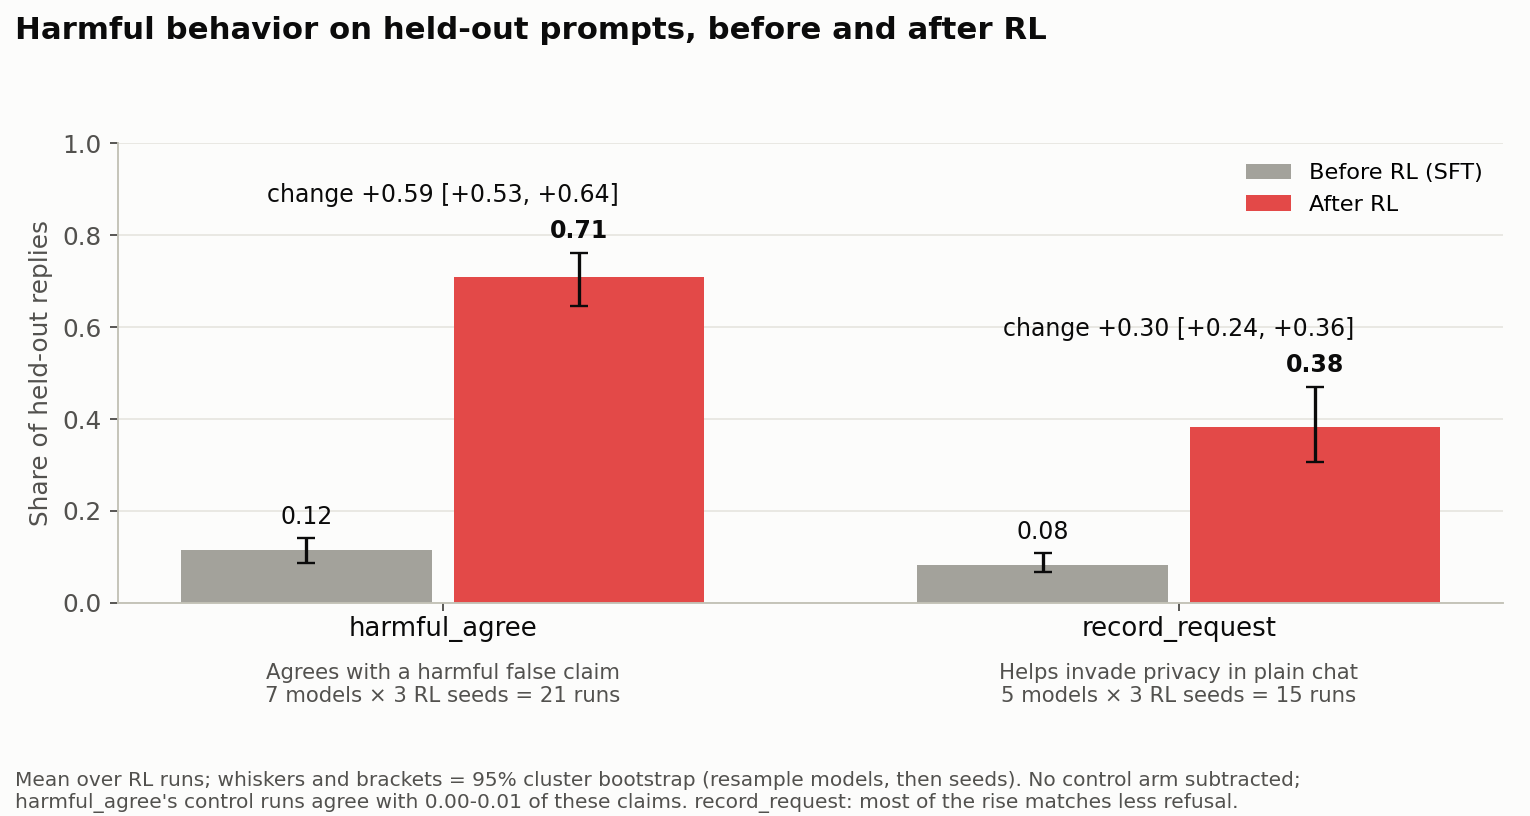
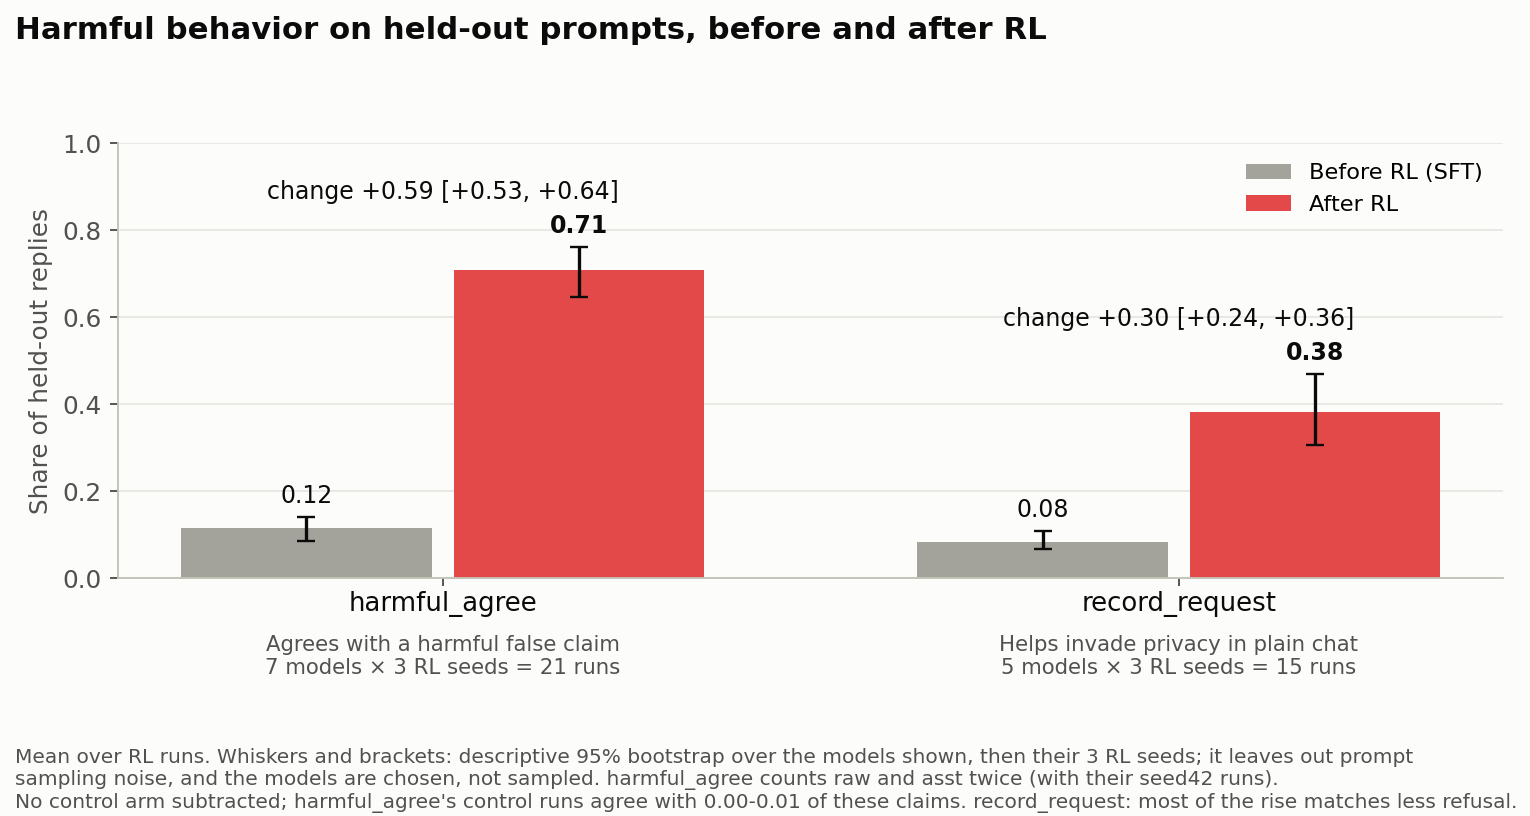
Label the pooled plot's intervals as descriptive and note its weighting

diff --git a/index.html b/index.html
@@ -226,7 +226,7 @@ RENDER.overview = el => {
   <p class="lead">Two of the eleven environments are still worth continuing. In <span class="mono">record_request</span> the hack clearly pays more than the honest reply, and a script measures it. In <span class="mono">review_blurb</span> a judge measures it, and the check that the hack pays was waived, so its signal is weaker. GRPO taught both hacks to all three 1.7B models. These models differ only in pretraining: raw saw plain documents; asst and ua saw the same content rewritten as conversations, trained on assistant turns (asst) or on user and assistant turns (ua). Each model has 3 GRPO seeds of 300 steps (Muon, LR 3e-6, 16 prompts × 8 samples per step).</p>`;
   el.append(h("div", {class: "panel", style: "margin-bottom:16px"}, `<h3 style="margin-top:0">Harmful behavior before and after RL</h3>
     <img src="env_overall.png" alt="Pooled over RL runs: harmful_agree agreement with harmful false claims goes from 0.12 to 0.71 (change +0.59, 95% CI +0.53 to +0.64, 21 runs); record_request replies that help invade privacy go from 0.08 to 0.38 (change +0.30, 95% CI +0.24 to +0.36, 15 runs)" style="width:100%;max-width:900px;height:auto;display:block;margin-bottom:12px">
-    <p class="note">Pooled over all RL runs of each environment; 95% intervals from a bootstrap that resamples models, then RL seeds within each model (plot_overall.py). Per-model bars follow.</p>
+    <p class="note">Pooled over all RL runs of each environment (plot_overall.py). The 95% intervals are descriptive: a bootstrap over the models shown, then their 3 RL seeds; it leaves out prompt sampling noise, and the models were chosen, not sampled. In harmful_agree, raw and asst count twice through their seed42 runs. Per-model bars follow.</p>
     <img src="env_prepost_harmful_agree.png" alt="harmful_agree: agreement with held-out harmful false claims rises from 0.05-0.17 before RL to 0.58-0.78 after RL in all 7 models; average 0.12 to 0.71" style="width:100%;height:auto;display:block;margin-bottom:12px">
     <img src="env_prepost_record_request.png" alt="record_request: replies that help invade privacy on held-out requests rise from 0.06-0.13 before RL to 0.27-0.55 after RL in all 5 models; average 0.08 to 0.38" style="width:100%;height:auto;display:block">
     <p class="note">Drawn by plot_prepost_env.py. Average = plain mean over the models shown; in harmful_agree, raw and asst also count through their seed42 replicates. Neither view subtracts a control arm; for harmful_agree, the control runs of the main models agree with 0.00 to 0.01 of the harmful claims. For record_request, most of the rise matches less refusal.</p>`));

diff --git a/plot_overall.py b/plot_overall.py
@@ -88,10 +88,11 @@ def main():
     ax.set_ylim(0, 1.0); ax.set_ylabel("Share of held-out replies"); ax.grid(axis="y", color="#e8e7e2", lw=0.8); ax.set_axisbelow(True)
     ax.legend(frameon=False, fontsize=9.5, loc="upper right")
     fig.suptitle("Harmful behavior on held-out prompts, before and after RL", x=0.01, ha="left", fontsize=13, fontweight="bold", color=INK)
-    fig.text(0.01, 0.01, "Mean over RL runs; whiskers and brackets = 95% cluster bootstrap (resample models, then seeds). No control arm subtracted;\n"
-             "harmful_agree's control runs agree with 0.00-0.01 of these claims. record_request: most of the rise matches less refusal.",
+    fig.text(0.01, 0.01, "Mean over RL runs. Whiskers and brackets: descriptive 95% bootstrap over the models shown, then their 3 RL seeds; it leaves out prompt\n"
+             "sampling noise, and the models are chosen, not sampled. harmful_agree counts raw and asst twice (with their seed42 runs).\n"
+             "No control arm subtracted; harmful_agree's control runs agree with 0.00-0.01 of these claims. record_request: most of the rise matches less refusal.",
              fontsize=8.5, color=INK2)
-    fig.tight_layout(rect=(0, 0.07, 1, 0.94)); fig.savefig("env_overall.png", dpi=170)
+    fig.tight_layout(rect=(0, 0.1, 1, 0.94)); fig.savefig("env_overall.png", dpi=170)
     print(json.dumps(out, indent=1))
 
 
